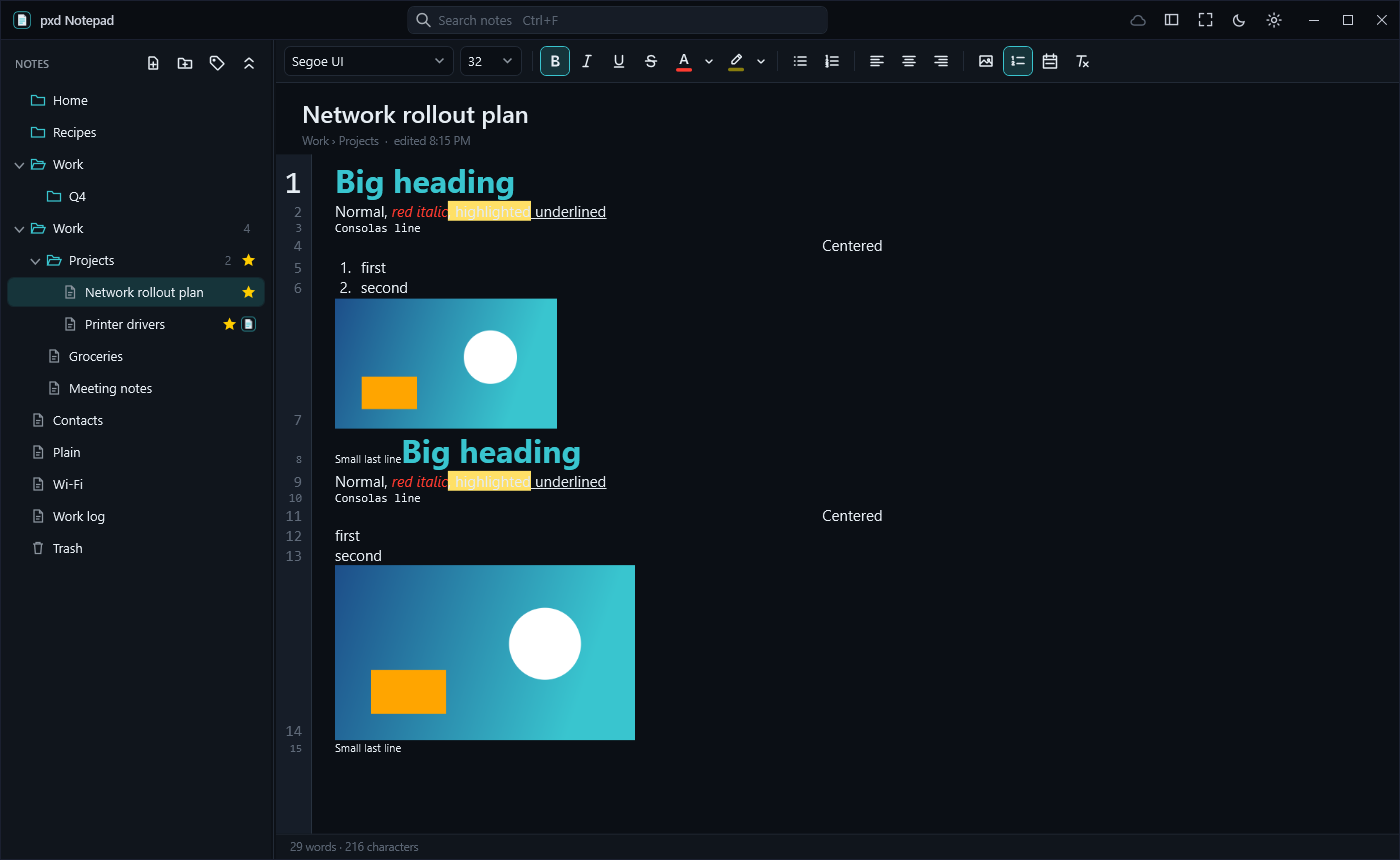
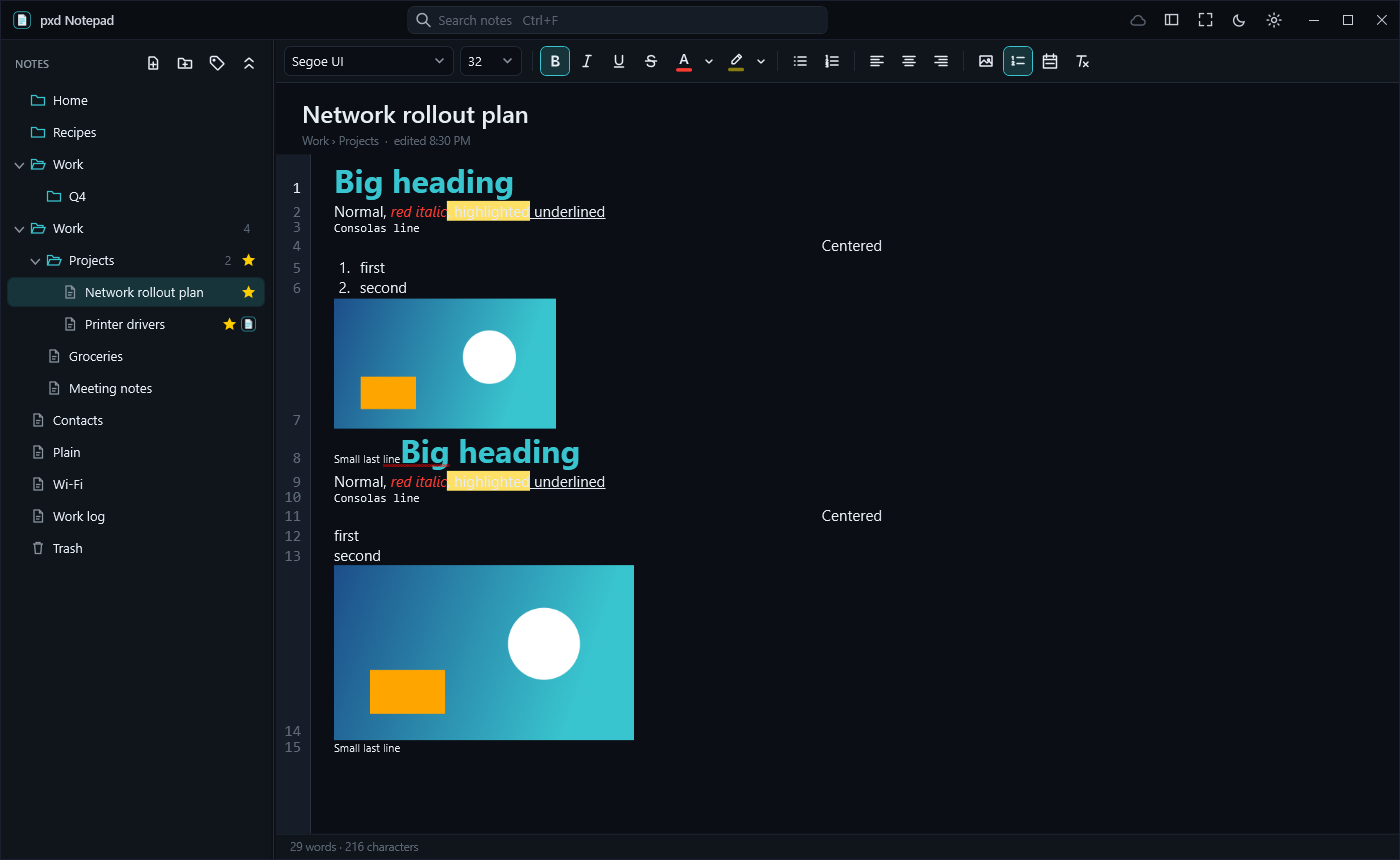
1.6.4: line numbers all at the note's normal size by default (on each line's baseline); matching each line's size is a setting

diff --git a/Editor/LineGutter.cs b/Editor/LineGutter.cs
@@ -21,6 +21,15 @@ public sealed class LineGutter : FrameworkElement
     private double _dpi = 1;
     private static readonly Typeface Face = new(new FontFamily("Consolas, Segoe UI"), FontStyles.Normal, FontWeights.Normal, FontStretches.Normal);
 
+    /// <summary>
+    /// Off (the default): every number is the note's normal text size, sitting on its line's baseline (a big line
+    /// just leaves space above its number). On: each number is drawn at its line's own text size.
+    /// </summary>
+    public bool MatchTextSize { get; set; }
+
+    /// <summary>The size a line's number is drawn at.</summary>
+    public double NumberSize(Line l) => MatchTextSize ? l.Size : _rtb.Document.FontSize;
+
     public LineGutter(RichTextBox rtb)
     {
         _rtb = rtb;
@@ -180,7 +189,7 @@ public sealed class LineGutter : FrameworkElement
         var texts = new List<(FormattedText Text, Line Line)>(lines.Count);
         foreach (var l in lines)
         {
-            var ft = new FormattedText(l.Number.ToString(CultureInfo.InvariantCulture), CultureInfo.InvariantCulture, FlowDirection.LeftToRight, Face, l.Size, l.Current ? cur : dim, _dpi);
+            var ft = new FormattedText(l.Number.ToString(CultureInfo.InvariantCulture), CultureInfo.InvariantCulture, FlowDirection.LeftToRight, Face, NumberSize(l), l.Current ? cur : dim, _dpi);
             texts.Add((ft, l));
             need = Math.Max(need, ft.WidthIncludingTrailingWhitespace + 18);
         }

diff --git a/SelfTest.cs b/SelfTest.cs
@@ -286,9 +286,12 @@ public static class SelfTest
 
         var lines = view.Gutter.VisibleLines();
         Ok(lines.Count >= 6, $"line numbers drawn ({lines.Count} visible)");
-        Ok(lines.Count > 0 && lines[0].Number == 1 && Math.Abs(lines[0].Size - 32) < 0.1, "line 1 (the 32 pt heading) gets a 32 pt number");
+        Ok(lines.Count > 0 && lines[0].Number == 1 && Math.Abs(lines[0].Size - 32) < 0.1 && Math.Abs(view.Gutter.NumberSize(lines[0]) - 15) < 0.1, "line 1 is the 32 pt heading; its number stays the normal 15 pt");
+        view.Gutter.MatchTextSize = true;
+        Ok(Math.Abs(view.Gutter.NumberSize(lines[0]) - 32) < 0.1, "with \"match text size\" on, it gets a 32 pt number");
+        view.Gutter.MatchTextSize = false;
         var small = lines.FirstOrDefault(l => Math.Abs(l.Size - 12) < 0.1);
-        Ok(small.Number > 0, "the 12 pt Consolas line gets a 12 pt number");
+        Ok(small.Number > 0 && Math.Abs(view.Gutter.NumberSize(small) - 15) < 0.1, "the 12 pt line's number is the normal size too");
         Ok(lines.Zip(lines.Skip(1)).All(p => p.Second.Baseline > p.First.Baseline), "numbers go down the page in order");
         Ok(lines.Any(l => Math.Abs(l.Size - 15) < 0.1), "normal lines use the note's 15 pt");
         Shot(border, Path.Combine(outDir, "main-dark.png"));

diff --git a/Views/SettingsWindow.cs b/Views/SettingsWindow.cs
@@ -64,6 +64,7 @@ public sealed class SettingsWindow : Window
         body.Children.Add(fontRow);
         body.Children.Add(Switch("Check spelling", settings.SpellCheck, v => { _s.SpellCheck = v; _s.Save(); SpellCheck.SetIsEnabled(_view.Editor, v); }));
         body.Children.Add(Switch("Show line numbers", settings.LineNumbers, v => { if (_s.LineNumbers != v) _view.ToggleLineNumbers(); }));
+        body.Children.Add(Switch("Line numbers match each line's text size", settings.LineNumbersMatchSize, v => { _s.LineNumbersMatchSize = v; _s.Save(); _view.Gutter.MatchTextSize = v; _view.Gutter.Reset(); }));
         body.Children.Add(Switch("Outline blurred text (easier to spot)", settings.BlurOutline, v => { _s.BlurOutline = v; _s.Save(); _view.Blur.Outline = v; _view.Blur.InvalidateVisual(); }));
 
         body.Children.Add(Heading("Sync"));

diff --git a/Views/MainView.Editor.cs b/Views/MainView.Editor.cs
@@ -62,7 +62,7 @@ public partial class MainView
         Editor.SetResourceReference(ForegroundProperty, "Text");
         SpellCheck.SetIsEnabled(Editor, _settings.SpellCheck);
         Editor.Document = NewDocument();
-        Gutter = new LineGutter(Editor) { Visibility = _settings.LineNumbers ? Visibility.Visible : Visibility.Collapsed };
+        Gutter = new LineGutter(Editor) { Visibility = _settings.LineNumbers ? Visibility.Visible : Visibility.Collapsed, MatchTextSize = _settings.LineNumbersMatchSize };
         Grid.SetColumn(Editor, 1);
         EditorGrid.Children.Add(Gutter);
         EditorGrid.Children.Add(Editor);

diff --git a/Data/AppSettings.cs b/Data/AppSettings.cs
@@ -23,6 +23,8 @@ public sealed class AppSettings
     public string FontFamily { get; set; } = "Segoe UI";
     public double FontSize { get; set; } = 15;
     public bool LineNumbers { get; set; }
+    /// <summary>Line numbers drawn at each line's own text size (off: all at the note's normal size).</summary>
+    public bool LineNumbersMatchSize { get; set; }
     public bool SpellCheck { get; set; } = true;
     public double SideWidth { get; set; } = 270;
     public bool SidebarOpen { get; set; } = true;

diff --git a/README.md b/README.md
@@ -35,8 +35,9 @@ each line's size, a distraction-free writing mode, dark and light themes, and en
 - **Blur** (select text → right-click → *Blur*, or `Ctrl+Shift+B`): for a password you need for a moment. It shows
   smeared, but copying it gives the real text. Blurred text is left out of search, previews and tooltips (shown as
   ••••••), stays blurred after a restart and on synced PCs. Right-click → *Unblur* to show it again.
-- **Line numbers** (`Ctrl+Shift+L`): each number is drawn at the size of the text that starts its line and sits on
-  that text's baseline, so a 32 pt heading gets a 32 pt number. Wrapped lines keep one number.
+- **Line numbers** (`Ctrl+Shift+L`): in their own shaded strip, all at the note's normal size and each on its line's
+  baseline (a big heading just leaves space above its number). Settings → Text can make each number match its
+  line's text size instead. Wrapped lines keep one number.
 - **Pictures:** paste a screenshot, drop or insert a file. Drag the corner to resize (it keeps its shape);
   right-click for actual size, half size or fit to the page.
 - **Mark-up:** double-click a picture to draw arrows and boxes on it, in any colour and thickness (Shift for a square;
